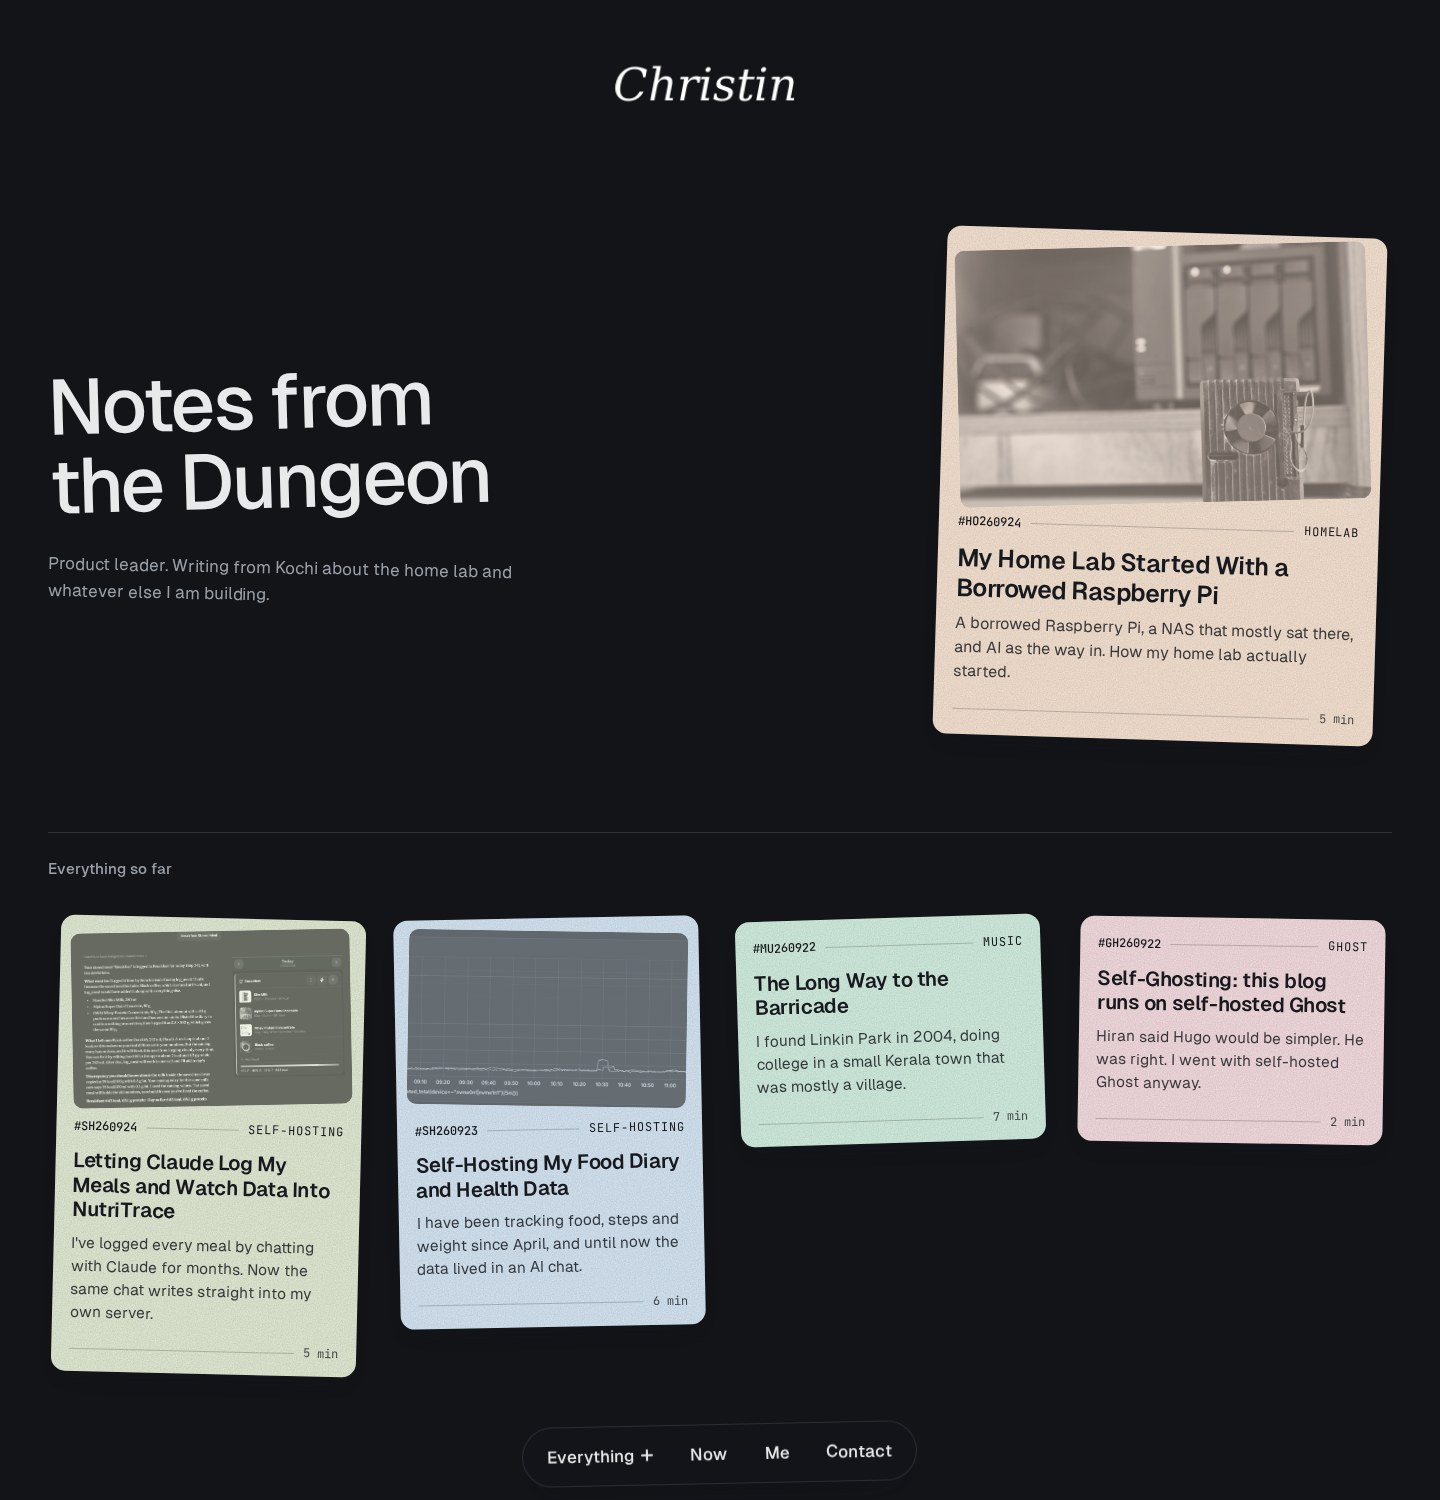
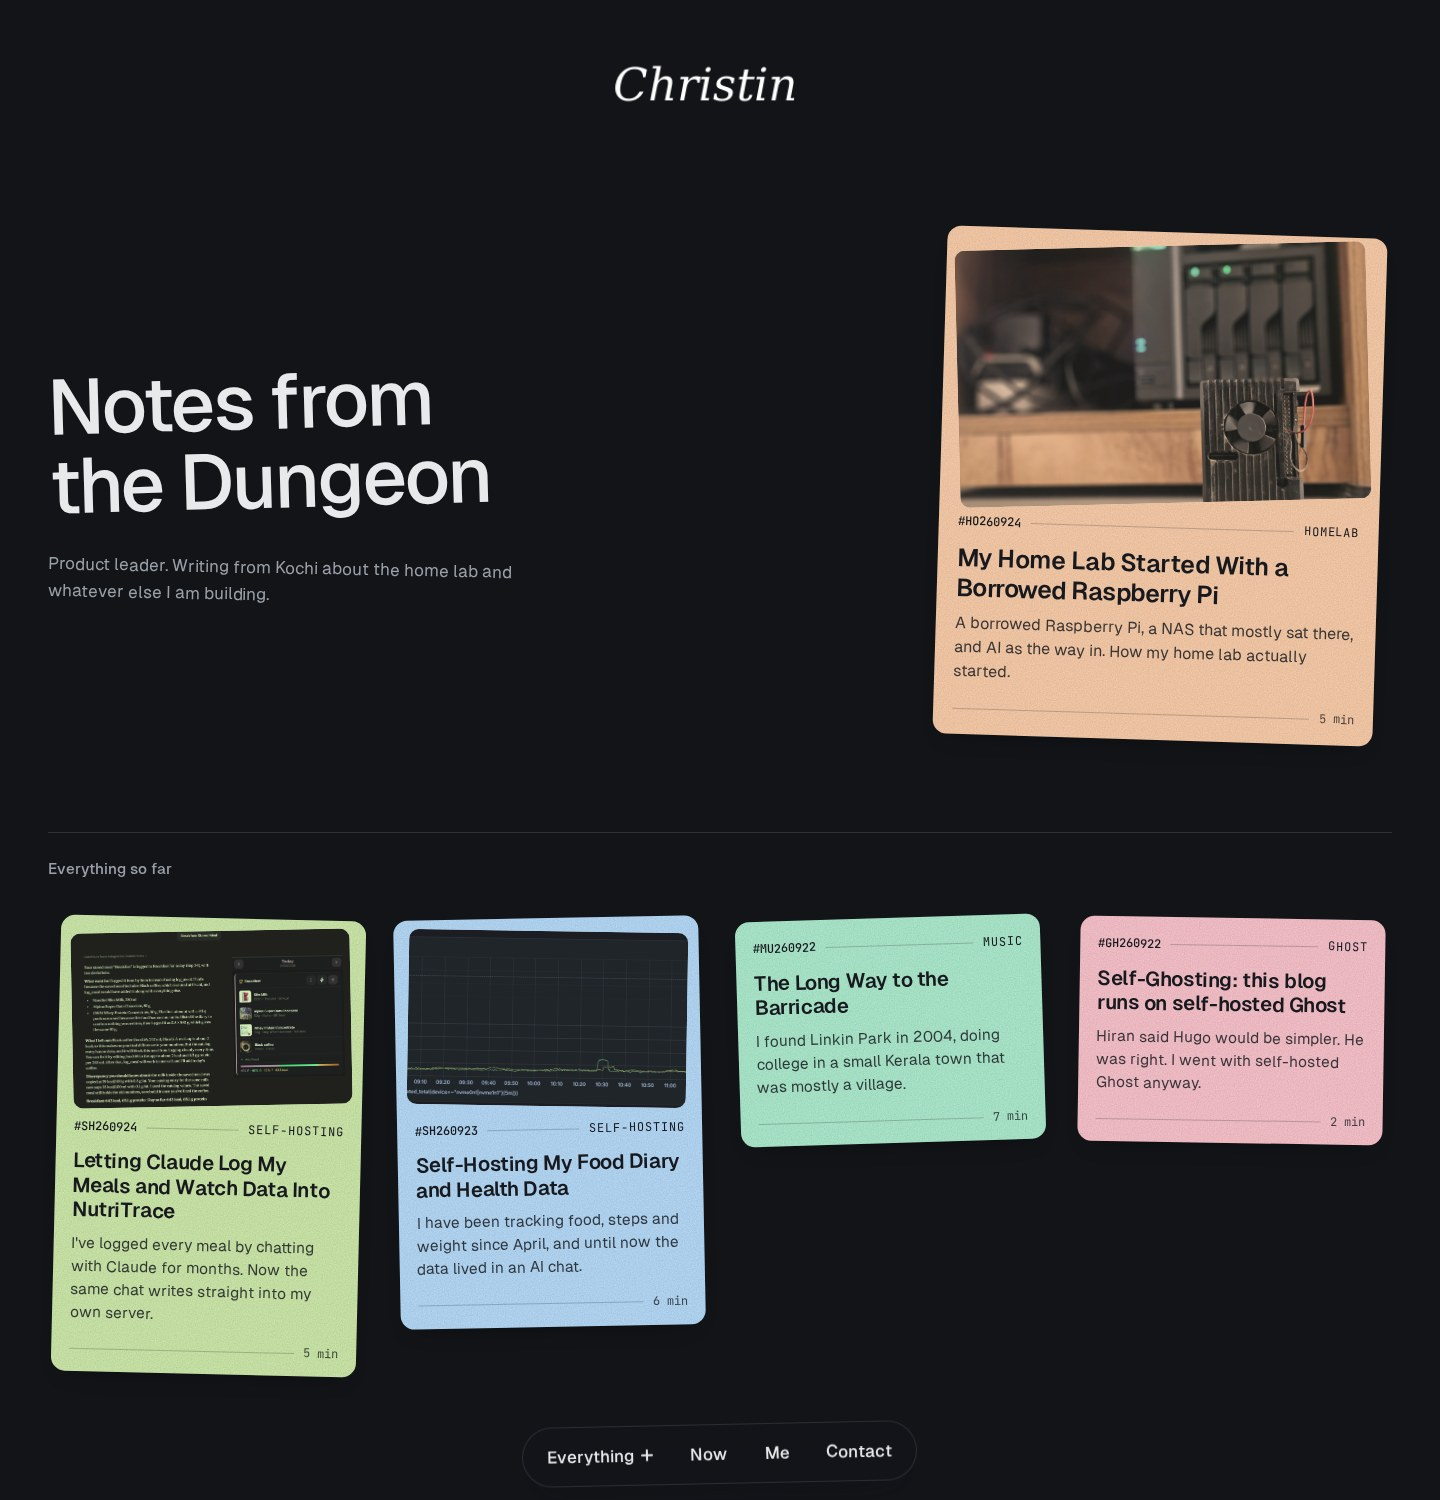
Dungeon 1.0.3
Dark Mode Color Boost

Changed region(s): [[0.0312, 0.5827, 0.9375, 0.92], [0.625, 0.1533, 0.9688, 0.5213]]

diff --git a/assets/css/screen.css b/assets/css/screen.css
@@ -37,15 +37,15 @@
     html[data-scheme="auto"] {
         --paper: #121418; --ink: #e8e9eb; --graphite: #9aa0a8;
         --rule: #2b2f36; --wash: #1b1e23; --led: #48c27d;
-        --card-rich: 0%; --card-shadow: 0 12px 26px -20px rgba(23, 25, 30, 0.55); --img-tone: contrast(1.08) brightness(1.06);
-        --rest-chroma: 1; --hover-chroma: 1; --hover-dl: 0; --img-grey: 1; --img-grey-hover: 0.25; --img-wash: 0.42; --img-wash-hover: 0.18; --img-blend-hover: multiply;
+        /* Dark mode shares light mode's card colours and photo treatment; only the shadow differs */
+        --card-shadow: 0 12px 26px -20px rgba(0, 0, 0, 0.7);
     }
 }
 html[data-scheme="dark"] {
     --paper: #121418; --ink: #e8e9eb; --graphite: #9aa0a8;
     --rule: #2b2f36; --wash: #1b1e23; --led: #48c27d;
-    --card-rich: 0%; --card-shadow: 0 12px 26px -20px rgba(23, 25, 30, 0.55); --img-tone: contrast(1.08) brightness(1.06);
-        --rest-chroma: 1; --hover-chroma: 1; --hover-dl: 0; --img-grey: 1; --img-grey-hover: 0.25; --img-wash: 0.42; --img-wash-hover: 0.18; --img-blend-hover: multiply;
+    /* Dark mode shares light mode's card colours and photo treatment; only the shadow differs */
+    --card-shadow: 0 12px 26px -20px rgba(0, 0, 0, 0.7);
 }
 
 *, *::before, *::after { box-sizing: border-box; }

diff --git a/README.md b/README.md
@@ -2,7 +2,7 @@
 
 A playful theme for [Ghost](https://ghost.org). Posts sit on the page as pastel index cards, each tilted at its own slight angle and stamped with a filing code. There's a floating menu, a month-by-month **Now** page, a **Scatter** wall of short notes, and a lightsaber in the footer that switches between light and dark.
 
-Version 1.0.2. Works with Ghost 5 and 6. Built for [christingeorge.com](https://christingeorge.com).
+Version 1.0.3. Works with Ghost 5 and 6. Built for [christingeorge.com](https://christingeorge.com).
 
 ![Dungeon: homepage](docs/screenshots/home.jpg)
 
@@ -36,7 +36,7 @@ Version 1.0.2. Works with Ghost 5 and 6. Built for [christingeorge.com](https://
 
 ## Installation
 
-1. Download the latest `dungeon-x.y.z.zip` from the [releases](../../releases).
+1. Download **`dungeon.zip`** from the [latest release](../../releases/latest). Keep that file name: Ghost names the theme after the zip, and theme settings belong to that name, so an update uploaded as `dungeon.zip` overwrites the theme and keeps your settings.
 2. Ghost Admin → **Settings → Design & branding → Change theme → Upload theme**, choose the zip, and activate it.
 3. Optional, but needed for the Now page and Scatter wall: upload [`docs/routes.yaml`](docs/routes.yaml) in **Settings → Labs → Routes**. Download your current file first as a backup.
 

diff --git a/CHANGELOG.md b/CHANGELOG.md
@@ -1,5 +1,10 @@
 # Changelog
 
+## 1.0.3
+
+- Dark mode gets the same colour treatment as light mode: brighter pastel cards, a stronger hover step, and photos in colour.
+- Releases now attach the theme as `dungeon.zip`, so updates install over the existing theme and keep its settings.
+
 ## 1.0.2
 
 First public release.
